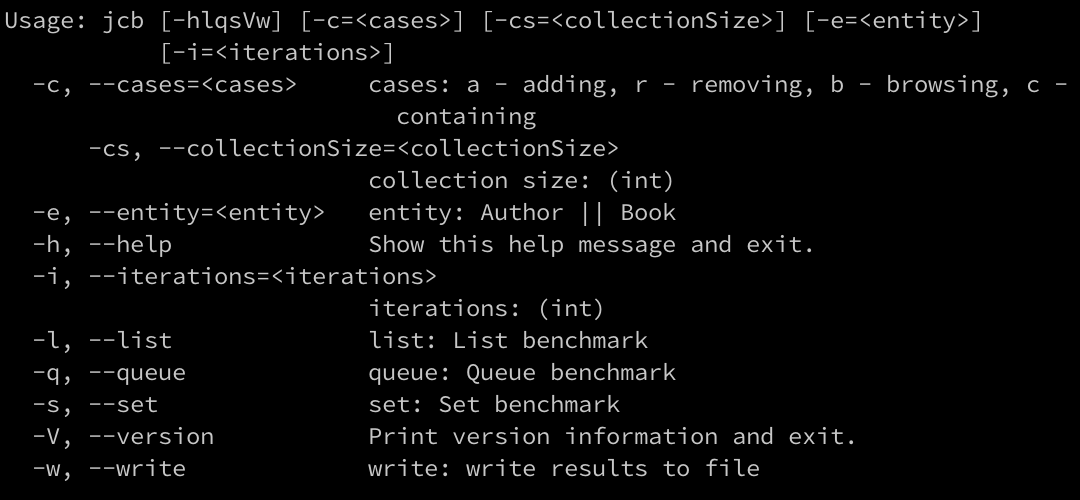
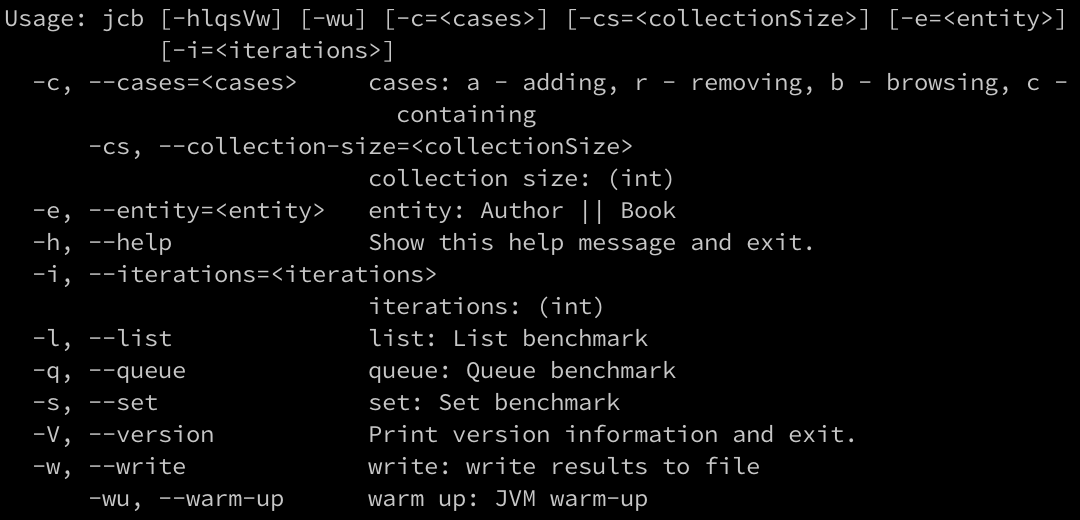
Implement JVM warm-up

diff --git a/src/main/java/com/miel3k/collectionsbenchmark/App.java b/src/main/java/com/miel3k/collectionsbenchmark/App.java
@@ -30,7 +30,7 @@ public class App implements Runnable {
     @CommandLine.Option(names = {"-e", "--entity"}, description = "entity: Author || Book", defaultValue = "Author")
     String entity;
 
-    @CommandLine.Option(names = {"-cs", "--collectionSize"}, description = "collection size: (int)", defaultValue = "10")
+    @CommandLine.Option(names = {"-cs", "--collection-size"}, description = "collection size: (int)", defaultValue = "10")
     int collectionSize;
 
     @CommandLine.Option(names = {"-i", "--iterations"}, description = "iterations: (int)", defaultValue = "5")
@@ -38,6 +38,9 @@ public class App implements Runnable {
 
     @CommandLine.Option(names = {"-w", "--write"}, description = "write: write results to file")
     boolean isWriteEnabled;
+
+    @CommandLine.Option(names = {"-wu", "--warm-up"}, description = "warm up: JVM warm-up")
+    boolean isWarmUpEnabled;
 
     public void run() {
         System.out.println("Hello from Java Collections Benchmark");
@@ -48,7 +51,8 @@ public class App implements Runnable {
                 parseCaseTypes(),
                 size,
                 parseIterations(size),
-                isWriteEnabled
+                isWriteEnabled,
+                isWarmUpEnabled
         );
         BenchmarkView benchmarkView = new ConsoleView();
         BenchmarkController benchmarkController = new BenchmarkController(benchmarkView, benchmarkConfiguration);
@@ -98,7 +102,7 @@ public class App implements Runnable {
     }
 
     private int parseIterations(int collectionSize) {
-        if (iterations >= collectionSize) {
+        if (iterations <= collectionSize) {
             return iterations;
         } else {
             return collectionSize;

diff --git a/src/main/java/com/miel3k/collectionsbenchmark/model/BenchmarkConfiguration.java b/src/main/java/com/miel3k/collectionsbenchmark/model/BenchmarkConfiguration.java
@@ -14,6 +14,7 @@ public class BenchmarkConfiguration {
     private final int collectionSize;
     private final int iterationsCount;
     private final boolean isWriteEnabled;
+    private final boolean isWarmUpEnabled;
 
     public BenchmarkConfiguration(
             BenchmarkEntity benchmarkEntity,
@@ -21,7 +22,8 @@ public class BenchmarkConfiguration {
             List<TestCaseType> caseTypeList,
             int collectionSize,
             int iterationsCount,
-            boolean isWriteEnabled
+            boolean isWriteEnabled,
+            boolean isWarmUpEnabled
     ) {
         this.benchmarkEntity = benchmarkEntity;
         this.testSuiteTypes = testSuiteTypeList;
@@ -29,6 +31,7 @@ public class BenchmarkConfiguration {
         this.collectionSize = collectionSize;
         this.iterationsCount = iterationsCount;
         this.isWriteEnabled = isWriteEnabled;
+        this.isWarmUpEnabled = isWarmUpEnabled;
     }
 
     public BenchmarkEntity getBenchmarkEntity() {
@@ -53,5 +56,9 @@ public class BenchmarkConfiguration {
 
     public boolean isWriteEnabled() {
         return isWriteEnabled;
+    }
+
+    public boolean isWarmUpEnabled() {
+        return isWarmUpEnabled;
     }
 }

diff --git a/src/main/java/com/miel3k/collectionsbenchmark/controller/BenchmarkController.java b/src/main/java/com/miel3k/collectionsbenchmark/controller/BenchmarkController.java
@@ -4,6 +4,7 @@ import com.miel3k.collectionsbenchmark.enums.TestCaseType;
 import com.miel3k.collectionsbenchmark.enums.TestSuiteType;
 import com.miel3k.collectionsbenchmark.model.BenchmarkConfiguration;
 import com.miel3k.collectionsbenchmark.model.BenchmarkResult;
+import com.miel3k.collectionsbenchmark.model.Warmer;
 import com.miel3k.collectionsbenchmark.suites.TestSuite;
 import com.miel3k.collectionsbenchmark.suites.factory.TestSuiteFactory;
 import com.miel3k.collectionsbenchmark.view.BenchmarkView;
@@ -28,6 +29,7 @@ public class BenchmarkController {
     }
 
     public void run() {
+        if (configuration.isWarmUpEnabled()) Warmer.warmUp();
         List<TestSuite> testSuites = new ArrayList<>();
         for (TestSuiteType testSuiteType : configuration.getTestSuiteTypes()) {
             TestSuite testSuite = TestSuiteFactory.getTestSuite(

diff --git a/src/main/java/com/miel3k/collectionsbenchmark/model/Warmer.java b/src/main/java/com/miel3k/collectionsbenchmark/model/Warmer.java
@@ -1,0 +1,17 @@
+package com.miel3k.collectionsbenchmark.model;
+
+public class Warmer {
+
+    public Warmer() {
+    }
+
+    public void method() {
+    }
+
+    public static void warmUp() {
+        for (int i = 0; i < 100000; i++) {
+            Warmer warmer = new Warmer();
+            warmer.method();
+        }
+    }
+}
